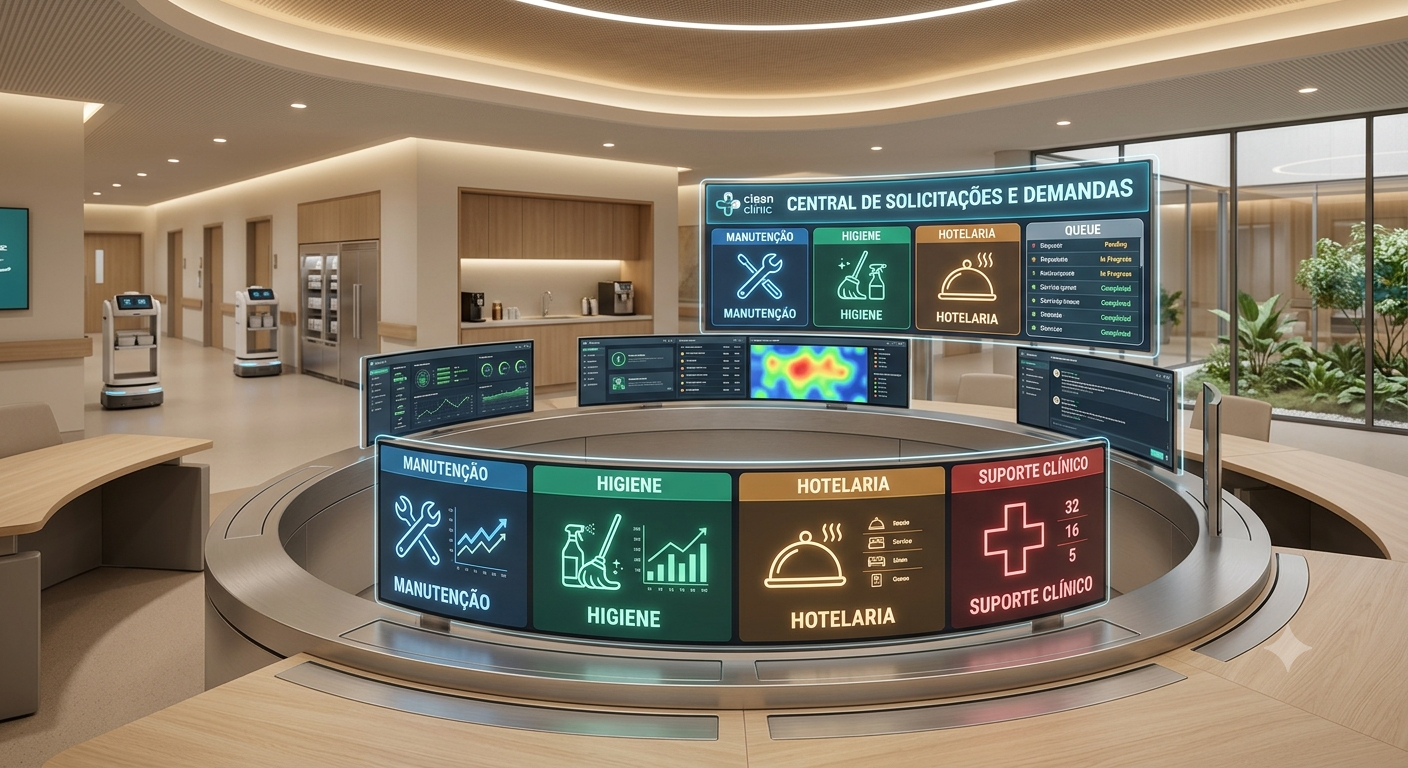
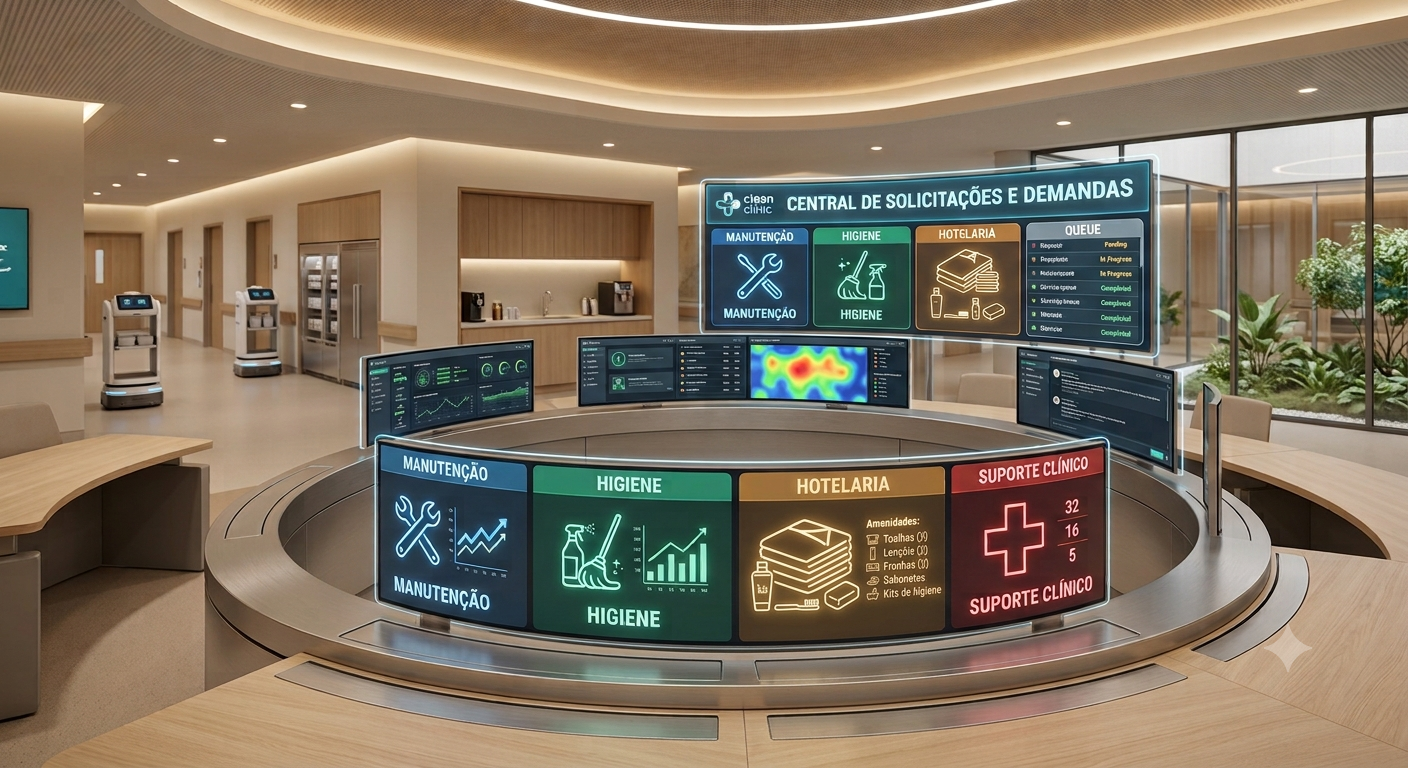
chore(acompanhantes): atualizar imagem de fundo e versionamento de cache

diff --git a/acompanhantes/index.html b/acompanhantes/index.html
@@ -30,7 +30,7 @@
         }
 
         body {
-            --portal-bg-image: url('./assets/Fundo-Portal-Acompanhante.png');
+            --portal-bg-image: url('./assets/Fundo-Portal-Acompanhante.png?v=20260727-2');
             font-family: -apple-system, BlinkMacSystemFont, 'Segoe UI', Roboto, sans-serif;
             background-color: #d8e9f0;
             background-image:
@@ -2101,9 +2101,9 @@
 
     <script>
         const PERIOD_BACKGROUND_MAP = {
-            manha: './assets/Fundo-Portal-Acompanhante.png',
-            tarde: './assets/Fundo-Portal-Acompanhante.png',
-            noite: './assets/Fundo-Portal-Acompanhante.png'
+            manha: './assets/Fundo-Portal-Acompanhante.png?v=20260727-2',
+            tarde: './assets/Fundo-Portal-Acompanhante.png?v=20260727-2',
+            noite: './assets/Fundo-Portal-Acompanhante.png?v=20260727-2'
         };
 
         function obterPeriodoAtual() {
@@ -2122,7 +2122,7 @@
 
         function aplicarFundoPorPeriodo() {
             const periodo = obterPeriodoAtual();
-            const imagem = PERIOD_BACKGROUND_MAP[periodo] || './assets/Fundo-Portal-Acompanhante.png';
+            const imagem = PERIOD_BACKGROUND_MAP[periodo] || './assets/Fundo-Portal-Acompanhante.png?v=20260727-2';
             document.body.style.setProperty('--portal-bg-image', `url('${imagem}')`);
             document.body.setAttribute('data-bg-periodo', periodo);
             console.log(`[UI] Fundo de calmaria aplicado para o periodo: ${periodo}`);

diff --git a/acompanhantes/service-worker.js b/acompanhantes/service-worker.js
@@ -11,6 +11,7 @@ const STATIC_ASSETS = [
   './',
   './index.html',
   './manifest.json',
+  './assets/Fundo-Portal-Acompanhante.png?v=20260727-2',
   './assets/Fundo-Portal-Acompanhante.png',
   './assets/bg-calmaria.svg',
   './assets/bg-calmaria-manha.svg',
